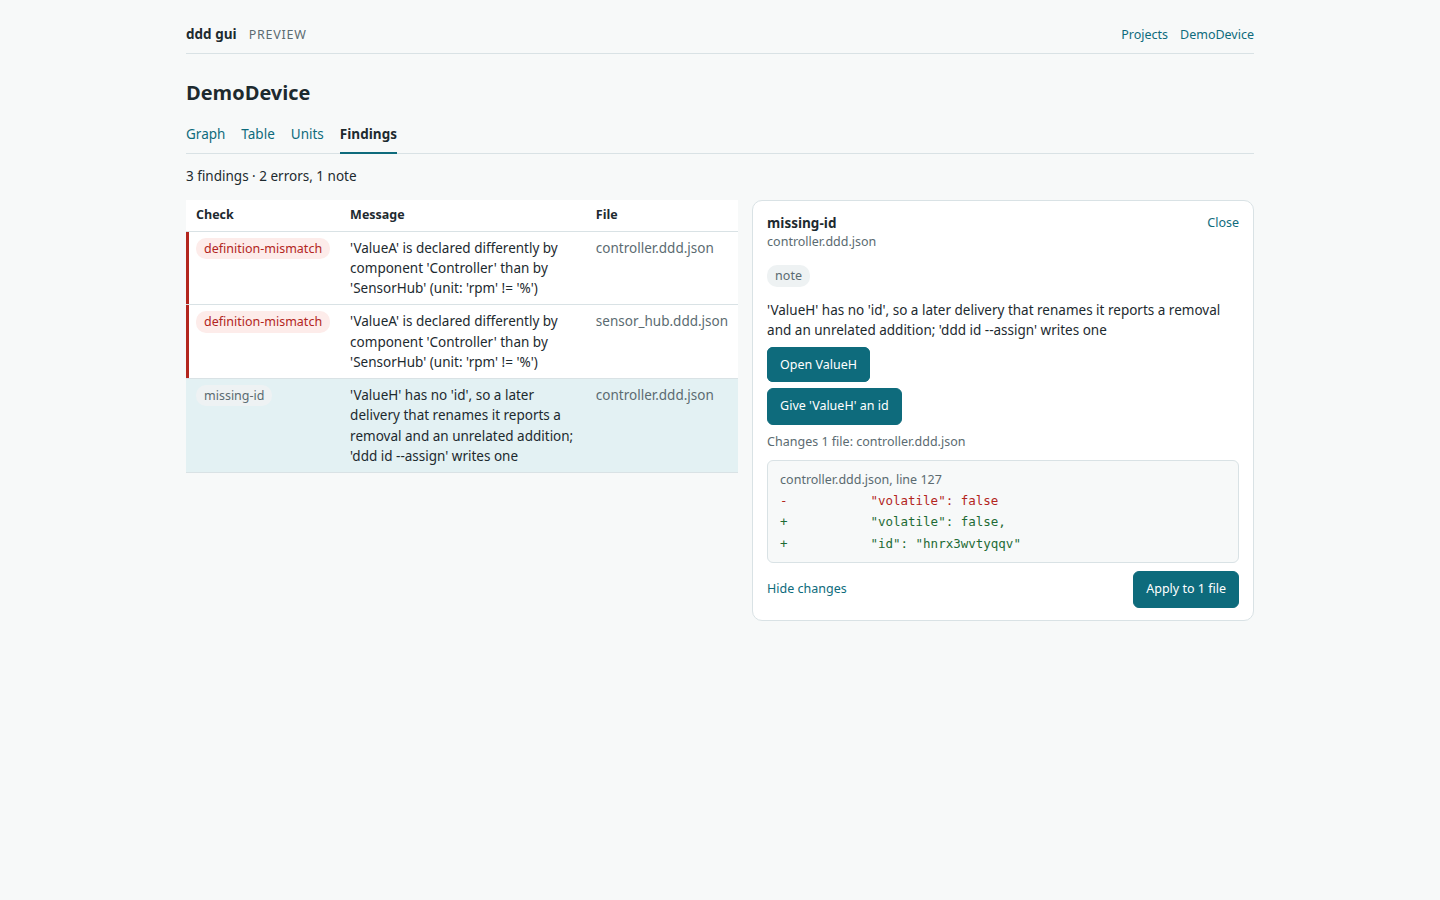
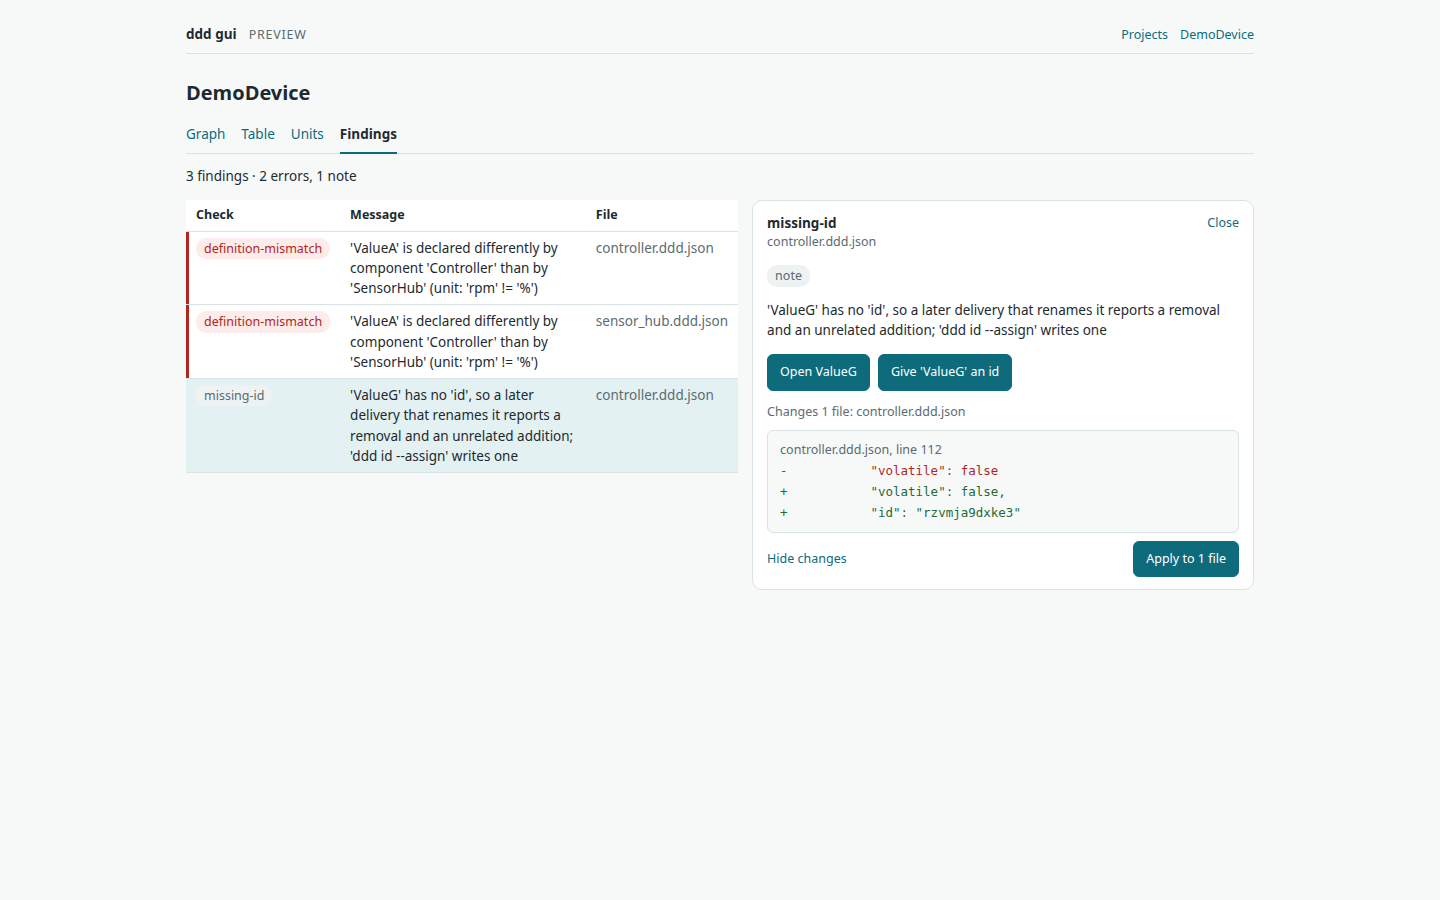
put what a finding offers on one line
Where it leads and the fix it carries were a link and a button in
separate blocks, so they stacked. They read as one row now, and what a
chosen fix reveals - the consequence, the lines, Apply - stays below at
the panel's own width.

diff --git a/gui/src/components/FindingPanelView.tsx b/gui/src/components/FindingPanelView.tsx
@@ -31,6 +31,25 @@ export interface FindingPanelViewProps {
 /** One finding's panel (spec 5.2), drawn from what the api answered: a picture of its props. */
 export function FindingPanelView(props: FindingPanelViewProps) {
   const { finding, label, href, reason, fixes, chosen, refusal, busy } = props;
+  const offered = fixes?.fixes ?? [];
+  // Built here rather than inline, so that `label` and `href` - which are null together - narrow
+  // once for the whole row.
+  const link =
+    label !== null && href !== null ? (
+      <a
+        className="button primary"
+        href={href}
+        onClick={(event: MouseEvent<HTMLAnchorElement>) => {
+          // A modified or secondary click asks the browser for a new tab or window.
+          const modified = event.ctrlKey || event.metaKey || event.shiftKey || event.altKey;
+          if (modified || event.button !== 0) return;
+          event.preventDefault();
+          props.onOpen();
+        }}
+      >
+        {label}
+      </a>
+    ) : null;
   return (
     <Panel title={finding.check} meta={baseName(finding.file)} onClose={props.onClose}>
       <p>
@@ -52,57 +71,50 @@ export function FindingPanelView(props: FindingPanelViewProps) {
           ))}
         </ul>
       )}
-      {label !== null && href !== null ? (
-        <p>
-          <a
-            className="button primary"
-            href={href}
-            onClick={(event: MouseEvent<HTMLAnchorElement>) => {
-              // A modified or secondary click asks the browser for a new tab or window.
-              const modified = event.ctrlKey || event.metaKey || event.shiftKey || event.altKey;
-              if (modified || event.button !== 0) return;
-              event.preventDefault();
-              props.onOpen();
-            }}
-          >
-            {label}
-          </a>
-        </p>
-      ) : (
-        <p className="quiet">{reason}</p>
+      {link === null && <p className="quiet">{reason}</p>}
+      {/* What this finding offers, read in one line: where it leads, and each fix it carries.
+          What a chosen fix reveals stays below them, at the panel's own width. */}
+      {(link !== null || offered.length > 0) && (
+        <div className="panel-offers">
+          {link}
+          {offered.map((fix) => (
+            <Button
+              key={fix.title}
+              variant={fix.title === chosen ? "primary" : "secondary"}
+              isDisabled={busy}
+              onPress={() => props.onChoose(fix.title === chosen ? undefined : fix.title)}
+            >
+              {fix.title}
+            </Button>
+          ))}
+        </div>
       )}
-      {fixes?.fixes.map((fix) => (
-        <section key={fix.title} className="panel-offer" aria-label={fix.title}>
-          <Button
-            variant={fix.title === chosen ? "primary" : "secondary"}
-            isDisabled={busy}
-            onPress={() => props.onChoose(fix.title === chosen ? undefined : fix.title)}
-          >
-            {fix.title}
-          </Button>
-          {fix.title === chosen &&
-            (refusal !== null ? (
+      {offered
+        .filter((fix) => fix.title === chosen)
+        .map((fix) => (
+          <section key={fix.title} className="panel-offer" aria-label={fix.title}>
+            {refusal !== null ? (
               <p className="panel-refusal" role="status">
                 {refusal}
               </p>
             ) : (
               <p className="consequence">{consequence(fix.changes)}</p>
-            ))}
-          {fix.title === chosen && refusal === null && fix.changes.length > 0 && (
-            <>
-              {props.changesShown && <Changes changes={fix.changes} />}
-              <div className="panel-actions">
-                <Button variant="link" onPress={() => props.onChangesShown(!props.changesShown)}>
-                  {props.changesShown ? "Hide changes" : "Show changes"}
-                </Button>
-                <Button variant="primary" isDisabled={busy} onPress={props.onApply}>
-                  Apply to {fix.changes.length} file{fix.changes.length === 1 ? "" : "s"}
-                </Button>
-              </div>
-            </>
-          )}
-        </section>
-      ))}
+            )}
+            {refusal === null && fix.changes.length > 0 && (
+              <>
+                {props.changesShown && <Changes changes={fix.changes} />}
+                <div className="panel-actions">
+                  <Button variant="link" onPress={() => props.onChangesShown(!props.changesShown)}>
+                    {props.changesShown ? "Hide changes" : "Show changes"}
+                  </Button>
+                  <Button variant="primary" isDisabled={busy} onPress={props.onApply}>
+                    Apply to {fix.changes.length} file{fix.changes.length === 1 ? "" : "s"}
+                  </Button>
+                </div>
+              </>
+            )}
+          </section>
+        ))}
     </Panel>
   );
 }

diff --git a/gui/src/styles/ui.css b/gui/src/styles/ui.css
@@ -345,6 +345,13 @@ tr.changing td {
   font-size: var(--text-small);
   font-weight: 600;
 }
+.panel-offers {
+  display: flex;
+  flex-wrap: wrap;
+  align-items: center;
+  gap: var(--space-2);
+  margin-top: var(--space-3);
+}
 .panel-offer {
   margin-top: var(--space-3);
 }
